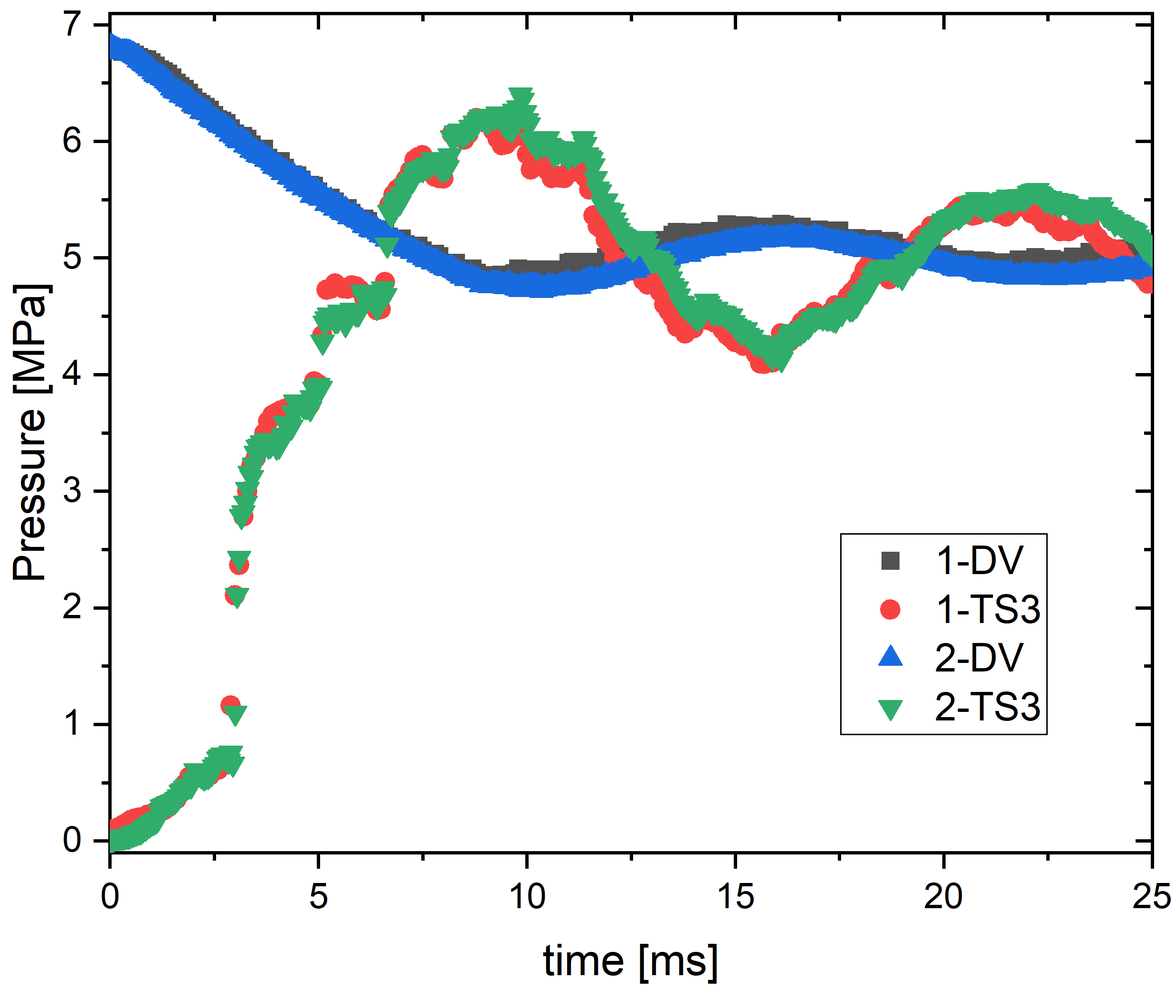
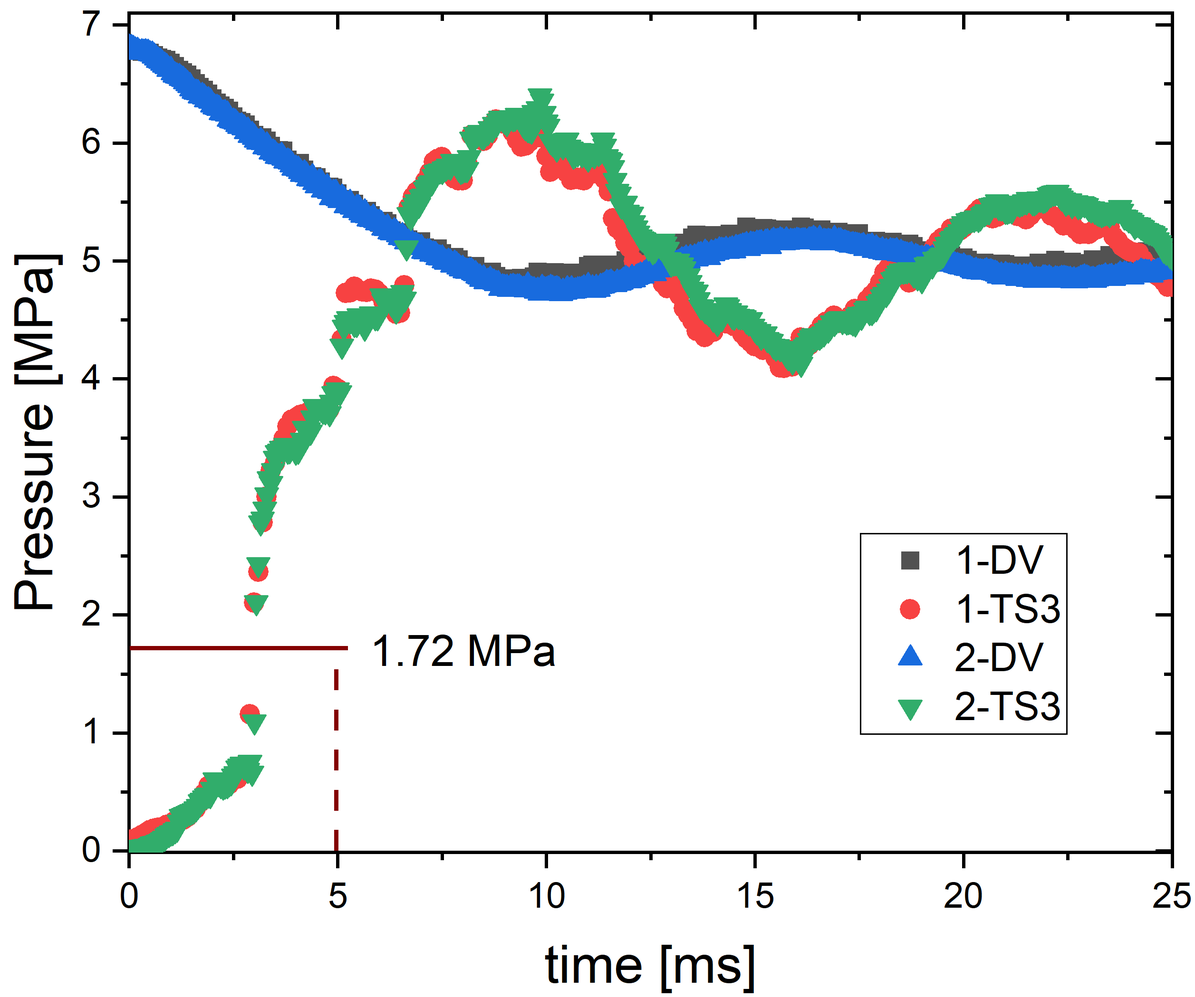
more revisions from Mignot, changed plots to have lines at 250psi and 5ms, updated some pics to have more labels and arrows, moved figures as needed, sending to Mignot again for final review before submission of draft to ANS -- AMW

diff --git a/results/results.tex b/results/results.tex
@@ -1,21 +1,21 @@
 \section{Results and Discussion} \label{s:results}
-This section will present the results of the work and discuss their significance. The piston valve is first compared to the previous results using the rupture disks to ensure the valve works as intended and provides the desired pressurization. Then, the piston valve is compared to itself to determine the valve's repeatability and predictability. The valve is then tested for re-usability and durability.
+This section will present the results of the work and discuss their significance. The piston valve is first compared to the previous results obtained with the rupture disks to ensure the valve works as intended and provides the desired pressurization. Then, the piston valve is compared to itself to determine the valve's repeatability and predictability. The valve is then tested for re-usability and durability.
 
 \subsection{Rupture Disk Results}
 
-\begin{figure}[bt]
+\begin{figure}[tb]
     \vspace{16pt}
     \centering
     \begin{subfigure}[t]{0.45\textwidth}
         \centering
-        \includegraphics[width=0.9\textwidth]{results/plots/BurstDiskTest_1inch.png}
+        \includegraphics[width=0.9\textwidth]{results/plots/1000psi_MPa_BD_1inch.png}
         \caption{Pressure over time for rupture disk HENRI test in a cylindrical test section.}
         \label{fig:cyl disk}
     \end{subfigure}
     \hfill
     \begin{subfigure}[t]{0.45\textwidth}
         \centering
-        \includegraphics[width=0.9\textwidth]{results/plots/1000psi_annular_disk.png}
+        \includegraphics[width=0.9\textwidth]{results/plots/1000psi_annular_BD.png}
         \caption{Pressure over time for a rupture disk HENRI test in an annular test section.}
         \label{fig:ann disk}
     \end{subfigure}
@@ -25,25 +25,25 @@ This section will present the results of the work and discuss their significance
     \vspace{16pt}
 \end{figure}
 
-The pressure evolution for the HENRI prototype using rupture disks is presented in \Cref{fig:disk}. The cylindrical test section has been selected for the final HENRI design, however, testing was performed with an annular test section to determine if the geometry could meet the pressurization requirements, while reducing the amount of helium-3 required to fill the volume. The annular geometry was decided against due to its complexity and reduced pressurization speed. \Cref{fig:ann disk} shows the pressure evolution for the annular geometry using a rupture disk, which is smoother, but slower than the same test performed with the cylindrical geometry, seen in \Cref{fig:cyl disk}.
+The pressure evolution for the HENRI prototype using rupture disks is presented in \Cref{fig:disk}. The cylindrical test section has been selected for the final HENRI design, however, testing was performed with an annular test section to determine if the geometry could meet the pressurization requirements, while reducing the amount of helium-3 that is self-shielded from neutrons by helium-3 closer to the wall. The annular geometry was decided against due to its complexity and reduced pressurization speed. \Cref{fig:ann disk} shows the pressure evolution for the annular geometry using a rupture disk, which is smoother, but slower than the same test performed with the cylindrical geometry, seen in \Cref{fig:cyl disk}.
 
 \subsection{First Piston Valve Design}
 % subsection about piston v rupture disk
 %\subsection{Piston Valve Compared to Rupture Disk} \label{s:disk v piston}
 
-\begin{figure}[bt]
+\begin{figure}[tb]
     \vspace{16pt}
     \centering
     \begin{subfigure}[t]{0.45\textwidth}
         \centering
-        \includegraphics[width=0.9\textwidth]{results/plots/1000psi_ann_BD_Pis_over.png}
+        \includegraphics[width=0.9\textwidth]{results/plots/1000psi_annular_BD_Piston.png}
         \caption{Pressure over time for rupture disk HENRI compared to first piston valve design for an annular HENRI test.}
         \label{fig:mtm disk}
     \end{subfigure}
     \hfill
     \begin{subfigure}[t]{0.45\textwidth}
         \centering
-        \includegraphics[width=0.9\textwidth]{results/plots/1000psi_MtMseal_25.png}
+        \includegraphics[width=0.9\textwidth]{results/plots/1000psi_MtMseal.png}
         \caption{Pressure over time for the first piston valve design in an annular HENRI test.}
         \label{fig:piston metal 1000psi}
     \end{subfigure}
@@ -71,20 +71,20 @@ The rupture disks were used in the HENRI system to determine if the system was c
 %\subsection{Piston Valve Repeatability} \label{ss:repeatability}
 
 
-\begin{figure}[bt]
+\begin{figure}[b!]
     \vspace{16pt}
     \centering
     \begin{subfigure}[t]{0.45\textwidth}
         \centering
-        \includegraphics[width=0.9\textwidth]{results/plots/Normalized_RX1_MtM_annular.png}
+        \includegraphics[width=0.9\textwidth]{results/plots/Normalized_RX1_MTM.png}
         \caption{First design piston valve test results normalized by initial driver tank pressure for a range of initial driver tank pressures.}
         \label{fig:norm}
     \end{subfigure}
     \hfill
     \begin{subfigure}[t]{0.45\textwidth}
         \centering
-        \includegraphics[width=0.9\textwidth]{results/plots/718psi_MTM_annu_failed_test.png}
-        \caption{First design piston valve test with a seal failure at an initial pressure of \SI{4.96}{\mega\pascal} (720 psi).[PLACE HOLDER -- NEED TO REPLACE]}
+        \includegraphics[width=0.9\textwidth]{results/plots/718psi_MtM_annular.png}
+        \caption{First design piston valve test with a seal failure at an initial pressure of \SI{4.96}{\mega\pascal} (720 psi).}
         \label{fig:piston 2 test}
     \end{subfigure}
     \caption{Comparison of results for piston valve to demonstrate repeatability at one initial pressure and predictability at varying initial pressures.}
@@ -93,7 +93,7 @@ The rupture disks were used in the HENRI system to determine if the system was c
 \end{figure}
 
 
-The valve selected for the HENRI system must provide a repeatable and predictable pressurization of the cartridge during a TREAT transient. \Cref{fig:piston repeatability} shows results from two tests at the same initial pressure and multiple tests at different initial pressures, normalized by initial pressure. The first plot, \Cref{fig:norm}, shows two tests with the first piston valve design at two pressures: \SI{7}{\mega\pascal} (1000psi) and \SI{6.1}{\mega\pascal} (890psi), normalized by initial driver tank pressure. Similarly to above, there is a slight delay in the second test compared to the first test, and after the delay, the results match closely. This comparison demonstrates the piston valve's need for high pressure to maintain a seal. With less pressure in the driver tank, the plug is not held against the flange as tightly and some helium is able to leak through before the piston has moved the plug fully away from the flange. The second plot, \Cref{fig:piston 2 test}, shows a test using the first piston valve design in which the seal failed before the valve was opened.[This is just a placeholder figure -- need to replace with something more useful]
+The valve selected for the HENRI system must provide a repeatable and predictable pressurization of the cartridge during a TREAT transient. \Cref{fig:piston repeatability} shows results from two tests at the same initial pressure and multiple tests at different initial pressures, normalized by initial pressure. The first plot, \Cref{fig:norm}, shows two tests with the first piston valve design at two pressures: \SI{7}{\mega\pascal} (1000psi) and \SI{6.1}{\mega\pascal} (890psi), normalized by initial driver tank pressure. Similarly to above, there is a slight delay in the second test compared to the first test, and after the delay, the results match closely. This comparison demonstrates the piston valve's need for high pressure to maintain a seal. With less pressure in the driver tank, the plug is not held against the flange as tightly and some helium is able to leak through before the piston has moved the plug fully away from the flange. The second plot, \Cref{fig:piston 2 test}, shows a test using the first piston valve design in which the seal failed before the valve was opened. In preparation for a test at \SI{4.96}{\mega\pascal} (720 psi), the piston valve is closed, but does not hold the seal and a leak develops between the driver tank and the test section. The seal plug used in this test is too worn and cannot hold a seal. The durability of the piston valve must be tested to find the operation limit.
 
 
 %%%%%%%%%%%%%%%%%%%%%%%%%%%%%%%%%%%%%%%%%%%%%%%%%%%%%%%%%%%%%%%%%%%%%%%%%%%%%%%%%%
@@ -103,13 +103,13 @@ The valve selected for the HENRI system must provide a repeatable and predictabl
 \begin{figure}[tb]
     \vspace{16pt}
     \centering
-    \includegraphics[width=0.6\textwidth]{design/photos/plug_gen1_wear_crop.png}
+    \includegraphics[width=0.9\textwidth]{design/photos/plug_gen1_wear_crop_labels.png}
     \caption{Plugs for piston valve. Left to right: stainless steel, stainless steel, and aluminum.}
     \label{fig:plug wear}
     \vspace{16pt}
 \end{figure}
 
-The re-usability of the piston valve was tested by cycling the piston 500 times, then comparing the sealing capability to before the cycles. After 500 cycles, the piston valve would not hold a seal, even with over \SI{6.9}{\mega\pascal} (1000 psi) in the bottom chamber of the piston and in the driver tank. The valve needs to be used without being replaced or maintained often, which is one of the reasons the rupture disks do not work. The metal plug was observed to have significant wear after the cycling tests, seen in \Cref{fig:plug wear}, which was asymmetrical. The used stainless steel plug, left, has extreme asymmetrical wear, which meant that the plug could not be used to seal at any pressure. The wear on the aluminum plug was also asymmetrical, however the softer metal was worn more easily and the plug has a more defined ring around its circumference. The asymmetrical wear was attributed to the three legged piston mount that allowed the piston to move slightly in one direction when the valve closed. A new mount and a new plug design that does not wear as much, or can still seal after being worn, would solve this problem.
+The re-usability of the piston valve was tested by cycling the piston 500 times, then comparing the sealing capability to before the cycles. After 500 cycles, the piston valve would not hold a seal, even with over \SI{6.9}{\mega\pascal} (1000 psi) in the bottom chamber of the piston and in the driver tank. The valve needs to be used without being replaced or maintained often, which is one of the reasons the rupture disks do not work. The metal plug was observed to have significant wear after the cycling tests, seen in \Cref{fig:plug wear}, which was asymmetrical. The used stainless steel plug, left, has extreme asymmetrical wear, which meant that the plug could not be used to seal at any pressure. The wear on the aluminum plug was also asymmetrical, however the softer metal was worn more easily and the plug has a more defined ring around its circumference. The asymmetrical wear was attributed to the three legged piston mount that allowed the piston to move slightly in one direction when the valve closed with the piston in extension. A new mount and a new plug design that does not wear as much, and can seal at lower pressures would improve the piston valve design.
 
 
 
@@ -117,7 +117,11 @@ The re-usability of the piston valve was tested by cycling the piston 500 times,
 % subsection about new piston valve design
 \subsection{Piston Valve Design Improvements} \label{ss:new valve}
 
-\begin{figure}[tb]
+
+
+An improved design must have a more robust seal and sealing surface that can seal under a wider range of conditions, and does not degrade as quickly. The piston mount was redesigned to be as symmetrical as possible. The three legs were replaced by a single piece cylinder sandwiched by two plates. One plate attaches the cylinder to the piston and the other plate attaches the cylinder to the flange. The new mount can be seen in \Cref{fig:cad mount 2}. The new plug design has a dovetail groove to hold an o-ring, which is expected to seal at much lower pressures and maintain better sealing capability after many cycles than when compared to the metal-to-metal seal of the first piston valve design. \Cref{fig:plug v2 draw} shows a drawing of the new plug design with the dovetail groove and the relative position of the flange sealing surface. Two different o-rings were selected based on their helium leak rates, high temperature rating, and radiation damage resistance: a FFKM o-ring manufactured by Marko Rubber and a Nitrile o-ring manufactured by Parker.
+
+\begin{figure}[t!]
     \vspace{16pt}
     \centering
     \begin{subfigure}[t]{0.45\textwidth}
@@ -127,9 +131,9 @@ The re-usability of the piston valve was tested by cycling the piston 500 times,
         \label{fig:cad mount 2}
     \end{subfigure}
     \hfill
-    \begin{subfigure}[t]{0.45\textwidth}
+    \begin{subfigure}[t]{0.49\textwidth}
         \centering
-        \includegraphics[width=0.66\textwidth]{design/photos/new_plug_draw_crop_paint.png}
+        \includegraphics[width=\textwidth]{design/photos/new_plug_draw_crop_paint_labels.png}
         \caption{Drawing of new plug design for piston valve with dovetail groove for an o-ring.}
         \label{fig:plug v2 draw}
     \end{subfigure}
@@ -139,22 +143,23 @@ The re-usability of the piston valve was tested by cycling the piston 500 times,
     \vspace{16pt}
 \end{figure}
 
-The piston mount was redesigned to be as symmetrical as possible. The three legs were replaced by a single piece cylinder sandwiched by two plates. One plate attaches the cylinder to the piston and the other plate attaches the cylinder to the flange. The new mount can be seen in \Cref{fig:cad mount 2}. The new plug design has a dovetail groove to hold an o-ring, which will provide a better seal than the metal only plug, especially at low pressures. The o-ring will also maintain sealing capability after more cycles than just metal. \Cref{fig:plug v2 draw} shows a drawing of the new plug design.
-
-
-
 %%%%%%%%%%%%%%%%%%%%%%%%%%%%%%%%%%%%%%%%%%%%%%%%%%%%%%%%%%%%%%%%%%%%%%%%%%%%%%%%%%
 
 \subsection{Improved Piston Valve Design}
 % subsection about new piston compared to rupture disk
 %\subsection{Improved Piston Valve Compared to Rupture Disk} \label{ss:new piston v disk}
 
-\begin{figure}[tb]
+
+
+Since a new piston mount and plug have been designed, the new setup needs to be tested and compared to the rupture disk results to ensure the valve is performing adequately and the desired pressure of \SI{1.72}{\mega\pascal} (250 psi) in less than \SI{5}{\milli\second} is still reached. \Cref{fig:disk new} shows a rupture disk and a piston valve test both starting at \SI{6.9}{\mega\pascal} (1000 psi), with a \SI{2.54}{\centi\meter} (1 inch) inner diameter intermediate section. The pressure evolution of the piston valve follows very closely to the rupture disk and the desired pressurization is reached. Also, the same shock structure is observed in the piston valve results, which proves the piston valve is able to open as rapidly as is required. \Cref{fig:piston 1000psi 25ms} shows a piston valve test under the same conditions, but has more instrumentation included. Comparing this plot to \Cref{fig:disk} shows that the piston valve produces pressure and density waves very similar to those of the rupture disk. The new piston valve design improves on the previous design by strongly reducing the observed delay at the beginning of the injection. The first piston valve design produced results, \Cref{fig:piston v disk}, that have a slow leak of pressure before the valve is fully open. The improved piston valve design does not exhibit this behavior. In \Cref{fig:disk new}, there is a small difference in slope at the beginning of the pressurization in the TS3 data between the rupture disk and the improved piston valve. 
+
+
+\begin{figure}[bt]
     \vspace{16pt}
     \centering
     \begin{subfigure}[t]{0.45\textwidth}
         \centering
-        \includegraphics[width=0.9\textwidth]{results/plots/BD_Piston_1000_overlay.png}
+        \includegraphics[width=0.9\textwidth]{results/plots/BD_Piston_overlay_1000.png}
         \caption{Pressure over time for rupture disk compared to the second generation plug design HENRI test.}
         \label{fig:disk new}
     \end{subfigure}
@@ -171,14 +176,15 @@ The piston mount was redesigned to be as symmetrical as possible. The three legs
     \vspace{16pt}
 \end{figure}
 
-Since a new piston mount and plug have been designed, the new setup needs to be tested and compared to the rupture disk results to ensure the valve is performing adequately and the desired pressure of \SI{1.72}{\mega\pascal} (250 psi) in less than \SI{5}{\milli\second} is still reached. \Cref{fig:disk new} shows a rupture disk and a piston valve test both starting at \SI{6.9}{\mega\pascal} (1000 psi), with a \SI{2.54}{\centi\meter} (1 inch) inner diameter intermediate section. The pressure evolution of the piston valve follows very closely to the rupture disk and the desired pressurization is reached. Also, the same shock structure is observed in the piston valve results, which proves the piston valve is able to open as rapidly as is required. \Cref{fig:piston 1000psi 25ms} shows a piston valve test under the same conditions, but has more instrumentation included. Comparing this plot to \Cref{fig:disk} shows that the piston valve produces pressure and density waves very similar to those of the rupture disk. Therefore, the repeatability of the improved piston mount and plug can be tested. 
-
-
-
-
 %%%%%%%%%%%%%%%%%%%%%%%%%%%%%%%%%%%%%%%%%%%%%%%%%%%%%%%%%%%%%%%%%%%%%%%%%%%%%%%%%%
 % subsection about new piston valve repeatability
 %\subsection{Improved Piston Valve Repeatability} \label{ss:new repeatability}
+
+
+
+The repeatability is tested in the same manner as the first piston valve design. The piston valve is tested at the same initial pressure to determine the repeatability and consistency, then the valve is tested at varying initial pressures to provide data to predict the valve's operation and pressure evolution over a range of pressures. \Cref{fig:new piston 2 test} shows two tests at an initial pressure of \SI{6.9}{\mega\pascal} (1000 psi). The two tests overlap each other well and demonstrate the improved piston valve can produce the same pressurization in the HENRI cartridge for multiple tests. \Cref{fig:new norm} presents tests over a range of initial pressures, normalized by the initial pressure. The highest three initial pressures provide very similar results, that also match well with the rupture disk tests. However, \SI{2.5}{\mega\pascal} (360 psi) and lower deviate and pressurize slower, with less oscillation. The behavior of the valve and HENRI cartridge at low initial pressure is useful to know so TREAT has more flexibility in transient capability. The improved piston valve design also can seal at much lower pressures than the metal only plug design, which further increases the capability of the system.
+
+
 
 \begin{figure}[bt]
     \centering
@@ -198,12 +204,6 @@ Since a new piston mount and plug have been designed, the new setup needs to be 
     \caption{Comparison of results for improved piston valve to demonstrate repeatability at one initial pressure and predictability at varying initial pressures.}
     \label{fig:new piston repeatability}
 \end{figure}
-
-The repeatability is tested in the same manner as the first piston valve design. The piston valve is tested at the same initial pressure to determine the repeatability and consistency, then the valve is tested at varying initial pressures to provide data to predict the valve's operation and pressure evolution over a range of pressures. \Cref{fig:new piston 2 test} shows two tests at an initial pressure of \SI{6.9}{\mega\pascal} (1000 psi). The two tests overlap each other well and demonstrate the improved piston valve can produce the same pressurization in the HENRI cartridge for multiple tests. \Cref{fig:new norm} presents tests over a range of initial pressures, normalized by the initial pressure. The highest three initial pressures provide very similar results, that also match well with the rupture disk tests. However, \SI{2.5}{\mega\pascal} (360 psi) and lower deviate and pressurize slower, with less oscillation. The behavior of the valve and HENRI cartridge at low initial pressure is useful to know so TREAT has more flexibility in transient capability. The improved piston valve design also can seal at much lower pressures than the metal only plug design, which further increases the capability of the system.
-
-
-
-
 
 
 

diff --git a/design/design.tex b/design/design.tex
@@ -1,10 +1,9 @@
 \section{Fast-Opening Valve Design} \label{s:design}
 % talk about design requirements
 % discuss the initial piston valve design -- what was it, how well did it work, why did it not work
-% A valve for use in HENRI must be: fast-opening (less than \SI{5}{\milli\second}), predictable, reliable, reusable, fit in the physical confines of the HENRI system, and not contaminate or disrupt the helium-3. 
-% To meet these requirements, a pneumatic piston valve was designed and a prototype was built at OSU. The valve uses helium as its working fluid, to press a metal plug against a machined flange surface to seal the high pressure driver tank from the evacuated test section. The piston is mounted to the flange and is fed helium via an external manifold that is connected through the flange using tube fittings. The plug is held closed by the piston pressure in one chamber (the bottom chamber in this set-up), as well as the pressure in the driver tank. When the piston is desired to be opened, the helium is vented from the bottom chamber, then the top chamber is pressurized rapidly to actuate the piston and remove the plug from the exit of the driver tank. Using the helium of the HENRI system as the working gas for the piston provides some advantages: firstly, using only helium in the system reduces the chances of contamination, which is vitally important for a system that will be full of rare helium-3 gas, both for neutronics and for economics, and secondly, using high pressure gas allows for rapid actuation of the piston, which will compensate for the slower actuation when compared to the rupture disk.
 
-To meet the requirements outlined above, a hydraulic pneumatic piston valve was designed, built, and tested at OSU.
+
+To meet the requirements outlined above, a piston actuated valve was designed, built, and tested at OSU.
 The valve utilizes the helium from the high pressure driver tank in HENRI as its working fluid, which decreases the chances of contamination compared to using another working fluid, as well as keeping the required external attachments to a minimum to improve the modularity of the HENRI cartridge.
 The piston can fit inside the driver tank and attaches to the driver tank's flange.
 The flange is machined to accept a machined plug that attaches to the piston to create a tight seal.
@@ -14,7 +13,7 @@ The valve can open rapidly by using the pressure of the helium in the driver tan
 The sealing surface has a lip machined into it that helps the metal plug to seal against the surface of the flange.
 
 % obviously put a drawing and/or picture here of the og design -- also include a picture of the whole HENRI assembly with labels, so this all makes sense
-\begin{figure}[tb]
+\begin{figure}[b!]
     \vspace{16pt}
     \centering
     \begin{subfigure}[t]{0.6\textwidth}
@@ -52,7 +51,7 @@ The sealing surface has a lip machined into it that helps the metal plug to seal
     \begin{subfigure}[t]{0.35\textwidth}
         \centering
         \includegraphics[width=0.58\textwidth]{design/photos/cobalt_plug.png}
-        \caption{As built plug for piston valve.}
+        \caption{As-built plug for piston valve.}
         \label{fig:cobalt plug}
     \end{subfigure}
     %
@@ -63,81 +62,12 @@ The sealing surface has a lip machined into it that helps the metal plug to seal
 
 
 
-The plug is machined with a slope of \SI{45}{\degree} to allow for maximum flow through the valve opening. The sealing surface of the flange is machined to match this slope, and when the piston presses the plug into the flange, the plug seals into the lip machined into the flange. \Cref{fig:plug} shows the drawing for the plug, as well as a plug as-built for the piston valve. To function properly, the plug must be designed such that the force from the pressure in the driver tank a) does not overwhelm the piston opening force and b) is able to hold the plug sealed without additional pressure in the piston. Sealing with only the pressure in the driver tank allows for the the piston chambers to be empty before the valve opens, which reduces resistance for the piston's movement and therefore maximizes the piston valve opening speed. The top and bottom chamber can be seen in \Cref{fig:piston valve}, which shows the piston valve installed on its mount on the flange. The mount uses three (3) legs to hold the piston onto the flange, which allows for tubing to go from the connections on the flange to the connections on the piston.
+The plug is machined with a slope of \SI{45}{\degree} to allow for maximum flow through the valve opening. The sealing surface of the flange is machined to match this slope, and when the piston presses the plug into the flange, the plug seals into the lip machined into the flange. \Cref{fig:plug} shows the drawing for the plug, as well as a plug as-built for the piston valve. To function properly, the plug must be designed such that the force from the pressure in the driver tank a) does not overwhelm the piston opening force and b) is able to hold the plug sealed without additional pressure in the piston. Sealing with only the pressure in the driver tank allows for the the piston chambers to be empty before the valve opens, which reduces resistance for the piston's movement and therefore maximizes the piston valve opening speed. The top and bottom chamber can be seen in \Cref{fig:piston valve}, which shows the piston valve installed on its mount on the flange. The first piston valve design mount uses three (3) legs to hold the piston onto the flange, which allows for tubing to go from the connections on the flange to the connections on the piston.
 
 
 
-% discuss metal-to-metal seal problems at low pressure -- dont discuss this here?
-% An additional requirement for the HENRI system from the TREAT team is that the valve can operate at low pressures in the driver tank, to broaden the range of experiments for which TREAT can use HENRI. The valve design uses both the pressure in the driver tank and the pressure in the piston to hold the plug closed, but if the pressure in either is low enough, there may not be enough sealing force to keep the helium from leaking. It was found with the metal-to-metal seal that it was difficult to keep the seal with a driver tank pressure less than \SI{500}{psia}[NEED TO CHECK, maybe add figure here, or ref results]. Low pressure sealing was difficult for this design, even with fresh plugs that had not been worn by the metal-to-metal contact.
+
 
 % discuss design improvements in second iteration in both the mount and the o-ring
 % \subsection{Design Iteration} \label{s:iteration}
 % While the first plug and mount design proved the concept of a piston valve will work for the HENRI system, the seal durability was low and the piston opening was not as smooth or as fast as desired. To improve the valve, a new plug was designed using an o-ring to improve the sealing ability, and a new mount was designed to provide a more uniform and sturdy hold on the piston. The new assembly can be seen in \Cref{fig:piston assembly}. The new plug still uses a \SI{45}{\degree} slope to mate to the existing flange, but it does not go to a point like the previous design. It has a dovetail groove machined into it, as seen in \Cref{fig:Dovetail Groove}, to hold the o-ring in place such that the o-ring presses into the machined surface of the flange to strongly seal the driver tank from the test section. Two types of o-ring materials have been tested: an FFKM o-ring manufactured by Marko Rubber and a nitrile o-ring manufactured by Parker. The new mount was designed to work with the existing flange, so it uses the same bolt holes and needs to align the piston with the same sealing surface. The mount is comprised of three aluminum pieces: a circular plate mounted to the bottom of the piston, a circular plate to hold the mount on the flange, and a cylindrical support holding the two plates together and keeping the piston at the correct distance from the sealing surface. The cylindrical support has slots machined into it to allow for gas flow, tube fitting connections on the piston, and access to the bolts that mount the assembly to the flange.
-
-% maybe include a table with serial numbers for o-rings?
-
-% need images / diagrams of 2nd gen plug and mount system
-%
-% \begin{figure}[htbp]
-%     \vspace{16pt}
-%     \centering
-%     \includegraphics[height=2.625in, width=3.5in,angle=270]{experiment/photos/Piston_Assembly.jpg} % for some reason, overleaf rotates this and it looks correct in overleaf, but it is not in a downloaded pdf -- this needs to be rotated to be correct in pdf -- you can look at it by downloading the pdf or changing the viewer to 'native' in the menu, instead of 'built-in'
-%     \caption{Piston assembled with second generation mount on flange.}
-%     \label{fig:piston assembly}
-%     \vspace{16pt}
-% \end{figure}
-%
-
-
-% dovetail
-
-% \begin{figure}[htbp]
-%     \vspace{16pt}
-%     \centering
-%     \includegraphics[width=4.032in]{design/photos/dovetail.JPG}
-%     \caption{Cutaway view of the second generation plug, with dovetail groove for o-ring. Measurements are in inches.}
-%     \label{fig:Dovetail Groove}
-%     \vspace{16pt}
-% \end{figure}
-
-
-
-
-% discuss future design improvements that have not yet been implemented -- new driver tank, proposed improvements to flange / piston pressure lines, etc.
-% \subsection{Future Improvements} \label{s:improvements}
-% Going forward, there is still work to be completed in the design process. Firstly, the HENRI prototype will need to be fitted with a driver tank that is more representative of the final HENRI system. This driver tank has been designed and fabricated, however the flange has not been machined to accept the piston valve. Also, the o-ring durability must continue to be tested, as o-rings have broken during testing at OSU. The exact cause of the o-ring failure has yet to be determined, but a testing campaign is underway to investigate the problem further.
-
-% o-ring failure pics -- do we want these here? they take up a lot of space and we might not want to talk too much about the o-ring failures. Maybe just have one of the two figs?
-
-% \begin{figure}[htbp]
-%     \vspace{16pt}
-%     \centering
-%     \includegraphics[width=4.032in, height=3.024in]{design/photos/Piston_Broken_Oring.jpg}
-%     \caption{Broken o-ring (FFKM) in piston assembly.}
-%     \label{fig:broken oring piston}
-%     \vspace{16pt}
-% \end{figure}
-
-    
-
-% \begin{figure}[htpb]
-%     \vspace{16pt}
-%     \centering
-%     \begin{subfigure}[t]{0.45\textwidth}
-%         \centering
-%         \includegraphics[width=\textwidth]{design/photos/Broken_Oring_Comparison.jpg}
-%         \caption{Comparison of broken o-ring (Nitrile) and new o-ring (FFKM).}
-%         \label{fig:broken oring comp}
-%     \end{subfigure}
-%     \hfill
-%     \begin{subfigure}[t]{0.45\textwidth}
-%         \centering
-%         \includegraphics[width=\textwidth]{design/photos/Oring_Dust_Plug.jpg}
-%         \caption{Rubber dust from broken o-ring (Nitrile) on the top of the plug.}
-%         \label{fig:broken oring dust}
-%     \end{subfigure}
-%     \caption{Images of the aftermath of an o-ring failing during a 1000 psia test.}
-%     \label{fig:broken oring 2}
-%     \vspace{16pt}
-% \end{figure}
-% %

diff --git a/experiment/experiment.tex b/experiment/experiment.tex
@@ -9,7 +9,7 @@ This section will describe the experimental facility, as it is currently assembl
 \subsection{Experimental Facility} \label{ss:facility}
 
 %
-\begin{figure}[bt]
+\begin{figure}[tb]
     \vspace{16pt}
     \centering
     \begin{subfigure}[t]{0.6\textwidth}
@@ -39,6 +39,7 @@ The reflector section will extend past the fuel to provide space for the gas ref
 The intermediate section allows for the driver tank to be positioned above the reactor core while also decreasing the total required volume of helium-3 for the HENRI system.
 The facility is made using 304 stainless steel.
 The test section and reflector are pipe with a \SI{4.826}{\centi\meter} outer diameter and \SI{0.368}{\centi\meter} wall thickness (1.5 inch schedule 40 NPS); the intermediate section is \SI{3.175}{\centi\meter} (1.25 inch) outer diameter tubing with \SI{0.3175}{\centi\meter} ($0.125$ inch) wall thickness; and the driver tank is pipe with a \SI{16.8275}{\centi\meter} outer diameter and \SI{0.7112}{\centi\meter} wall thickness (6 inch schedule 40 NPS).
+An annular test section was also tested, but will not be used in the final design due to manufacturing challenges and reduction in pressurization speed compared to the cylindrical test section. The annular test section was made using an outer pipe with a \SI{8.89}{\centi\meter} outer diameter and \SI{0.762}{\centi\meter} wall thickness (3 inch schedule 80 NPS) and an inner pipe with a \SI{6.0325}{\centi\meter} outer diameter and \SI{0.3912}{\centi\meter} wall thickness (2 inch schedule 40 NPS).
 The piston valve is attached to the top flange of the driver tank and hangs inside. \Cref{fig:piston valve} shows the first piston valve design attached to the driver tank flange, outside of the HENRI cartridge.
 This setup is used to test the operation of the valve, as well as the durability and re-usability of the valve.
 Performing these tests outside of the cartridge allows for easier observation and decreases time between durability tests.
@@ -68,16 +69,6 @@ There is a manifold of four (4) solenoid valves used to operate the piston. SV-P
 These solenoid valves are Parker Series 9 Miniature Calibrant Valve 009-0172-900.
 This particular valve was selected for its small form factor, high pressure rating of \SI{8.6}{\mega\pascal} (1250 psi), and low helium leak rate of \SI{1e-7}{atm\ \centi\meter^3\per\second}.
 
-% %
-% \begin{figure}[htbp]
-%     \vspace{16pt}
-%     \centering
-%     \includegraphics[width=3.024in, height=4.032in]{experiment/photos/Piston_Assembly.jpg}
-%     \caption{Piston assembled with second generation mount on flange.}
-%     \label{fig:piston assembly}
-%     \vspace{16pt}
-% \end{figure}
-% %
 
 
 
@@ -91,4 +82,11 @@ This particular valve was selected for its small form factor, high pressure rati
 % we tested the plugs and o-rings for durability / sealing with sustained seal tests and repeated seal tests outside of the henri facility (just using the flange and piston)
 % we tested the valve / plugs / o-rings in henri tests
 
-The overall methodology for testing the piston valve includes three main parts: comparing the piston valve's performance to the rupture disk; testing the piston valve's repeatability in HENRI helium insertions; and testing the piston valve for re-usability and sealing after large numbers of cycles. The piston valve is first tested in a HENRI injection and the results are compared to those of the rupture disk tests to ensure the piston valve is performing correctly and pressurizing the cartridge to the desired \SI{1.72}{\mega\pascal} (250 psi) in \SI{5}{\milli\second}. Secondly, the piston valve is tested repeatedly at one initial pressure to determine the repeatability of the valve, and at different initial pressures to determine how predictable the piston valve's behaviour is over a range of operating pressure. Thirdly, testing the re-usability of the piston valve was performed by cycling the piston valve to simulate the wear of long term use and comparing its sealing ability before and after the cycles. The LabVIEW code used for data acquisition was modified to automate the piston cycling process, so the cycle test could be performed overnight, then the piston valve is tested the next day to determine the seal degradation due to wear.
+The overall methodology for testing the piston valve includes three main parts: comparing the piston valve's performance to the rupture disk; testing the piston valve's repeatability in HENRI helium insertions; and testing the piston valve for re-usability and sealing after large numbers of cycles. The piston valve is first tested in a HENRI injection and the results are compared to those of the rupture disk tests to ensure the piston valve is performing correctly and pressurizing the cartridge to the desired \SI{1.72}{\mega\pascal} (250 psi) in \SI{5}{\milli\second}. Secondly, the piston valve is tested repeatedly at one initial pressure to determine the repeatability of the valve, and at different initial pressures to determine how predictable the piston valve's behaviour is over a range of operating pressure. Thirdly, testing the re-usability of the piston valve was performed by cycling the piston valve to simulate the wear of long term use and comparing its sealing ability before and after the cycles. The LabVIEW code used for data acquisition was modified to automate the piston cycling process, so the cycle test could be performed overnight, then the piston valve is tested the next day to determine the seal degradation due to wear. A summary of the testing methodology is listed below.
+
+\begin{itemize}
+    \item Compare piston valve to rupture disk.
+    \item Test repeatability at one pressure.
+    \item Test piston valve operation at varying pressures.
+    \item Test piston valve durability over time.
+\end{itemize}

diff --git a/intro/intro.tex b/intro/intro.tex
@@ -20,9 +20,9 @@ The Transient Reactor Test (TREAT) facility, located at the Materials and Fuels 
 
 In 1998, Crawford \cite{Crawford1998} suggested the use of helium-3, a strong neutron absorber gas, for clipping a high-power pulse in TREAT. Such a system would be capable of inserting a negative reactivity of -5\% $\Delta k/k$ without the use of control rods. The original calculation results in a FWHM reduced to 40-\SI{60}{\milli\second} for a total energy deposition of \SI{1600}{\mega\joule}, well below the \SI{2500}{\mega\joule} limit, and the peak power was estimated to be \SI{20000}{\mega\watt}. This pulse is more representative of the postulated LWR RIA and is shown as a red dotted line in \Cref{fig:trans comp}.
 
-Helium-3 has been used for transient control at the CABRI reactor in Cadarache, France. At CABRI, helium-3 is pressurized in 4 tubes in the core, then to initiate a transient, the helium-3 is rapidly depressurized from the core, causing a positive reactivity insertion. This depressurization is precisely controlled using multiple valves to produce the desired pulse width and power for the transient \cite{Clamens2016,Clamens2018,Clamens2018b}. In TREAT, this process will be reversed by rapidly pressurizing tubes in the core with helium-3 to shut down a transient (negative reactivity insertion). CABRI has been updated and is currently used under the OECD/NEA CABRI International Project (CIP).
+Helium-3 has been used for transient control at the CABRI reactor in Cadarache, France. At CABRI, helium-3 is pressurized in 4 tubes in the core, then to initiate a transient, the helium-3 is rapidly depressurized from the core, causing a positive reactivity insertion. This depressurization is precisely controlled using multiple valves to produce the desired pulse width and power for the transient \cite{Clamens2016,Clamens2018,Clamens2018b}. In TREAT, this process will be reversed by rapidly pressurizing tubes in the core with helium-3 to shut down a transient (negative reactivity insertion).
 
-Initial calculations for the TREAT facility showed that a helium-3 pressure of \SI{1.72}{\mega\pascal} (\SI{250}{psi}) in four (4) cartridges, each with a volume of \SI{1167}{\centi\meter^3} would be sufficient to reach the desired negative reactivity of -5\% $\Delta k/k$. This pressure corresponds to an atomic density of \SI{3.35e20}{atoms\per\centi\meter^3}. For a pulse to be clipped properly, it is estimated that the helium-3 must be injected in \SI{5}{\milli\second} \cite{BESS2019}. Oregon State University (OSU) was tasked to model, design, and test an out-of-pile prototype cartridge to assess the feasibility and repeatability of the physical process; and identify and solve any engineering issues associated with the device. The experimental Helium-3 Negative Reactivity Insertion (HENRI) facility was designed and built at OSU. The previous work on HENRI used rupture disks to investigate if the desired pressurization speed was achievable and repeatable, using a range of initial pressures and rupture disk (orifice) sizes \cite{HeNURETH}. The largest tested orifice size, \SI{2.54}{\centi\meter} (1 inch) diameter, was selected to provide the highest flow rate; and TREAT would like to have flexibility in the initial pressure to shape transients to match various conditions, however, the optimal pressure range is 1.72-3.44 \si{\mega\pascal} (250-500 psi).
+Initial calculations for the TREAT facility showed that a helium-3 pressure of \SI{1.72}{\mega\pascal} (\SI{250}{psi}) in four (4) cartridges, each with a volume of \SI{1167}{\centi\meter^3} would be sufficient to reach the desired negative reactivity of -5\% $\Delta k/k$. This pressure corresponds to an atomic density of \SI{3.35e20}{atoms\per\centi\meter^3}. For a pulse to be clipped properly, it is estimated that the helium-3 must be injected in \SI{5}{\milli\second} \cite{BESS2019}. Oregon State University (OSU) was tasked to model, design, and test an out-of-pile prototype cartridge to assess the feasibility and repeatability of the physical process, and identify and solve any engineering issues associated with the device. The experimental Helium-3 Negative Reactivity Insertion (HENRI) facility was designed and built at OSU. The HENRI facility is made up of a high pressure driver tank connected to a test section by an intermediate section containing an opening device. The previous work on HENRI used rupture disks to investigate if the desired pressurization speed was achievable and repeatable, using a range of initial pressures and rupture disk (orifice) sizes \cite{HeNURETH}. The largest tested orifice size, \SI{2.54}{\centi\meter} (1 inch) diameter, was selected to provide the highest flow rate; and TREAT would like to have flexibility in the initial pressure to shape transients to match various conditions, however, the optimal pressure range is 1.72-3.44 \si{\mega\pascal} (250-500 psi).
 
 
 

diff --git a/main.tex b/main.tex
@@ -167,7 +167,7 @@ TREAT, Helium-3, Control Rod, Pulse, Valve
 \input{results/results}
 
 
-%\clearpage
+\clearpage
 %%%%%%%%%%%%%%%%%%%%%%%%%%%%%%%%%%%%%%%%%%%%%%%%%%%%%%%%%%%%%%%%%%%%%%%
 %%%%%%%%%%%%%%%%%%%%%%%%%%%% CONCLUSION %%%%%%%%%%%%%%%%%%%%%%%%%%%%%%%
 %%%%%%%%%%%%%%%%%%%%%%%%%%%%%%%%%%%%%%%%%%%%%%%%%%%%%%%%%%%%%%%%%%%%%%%
